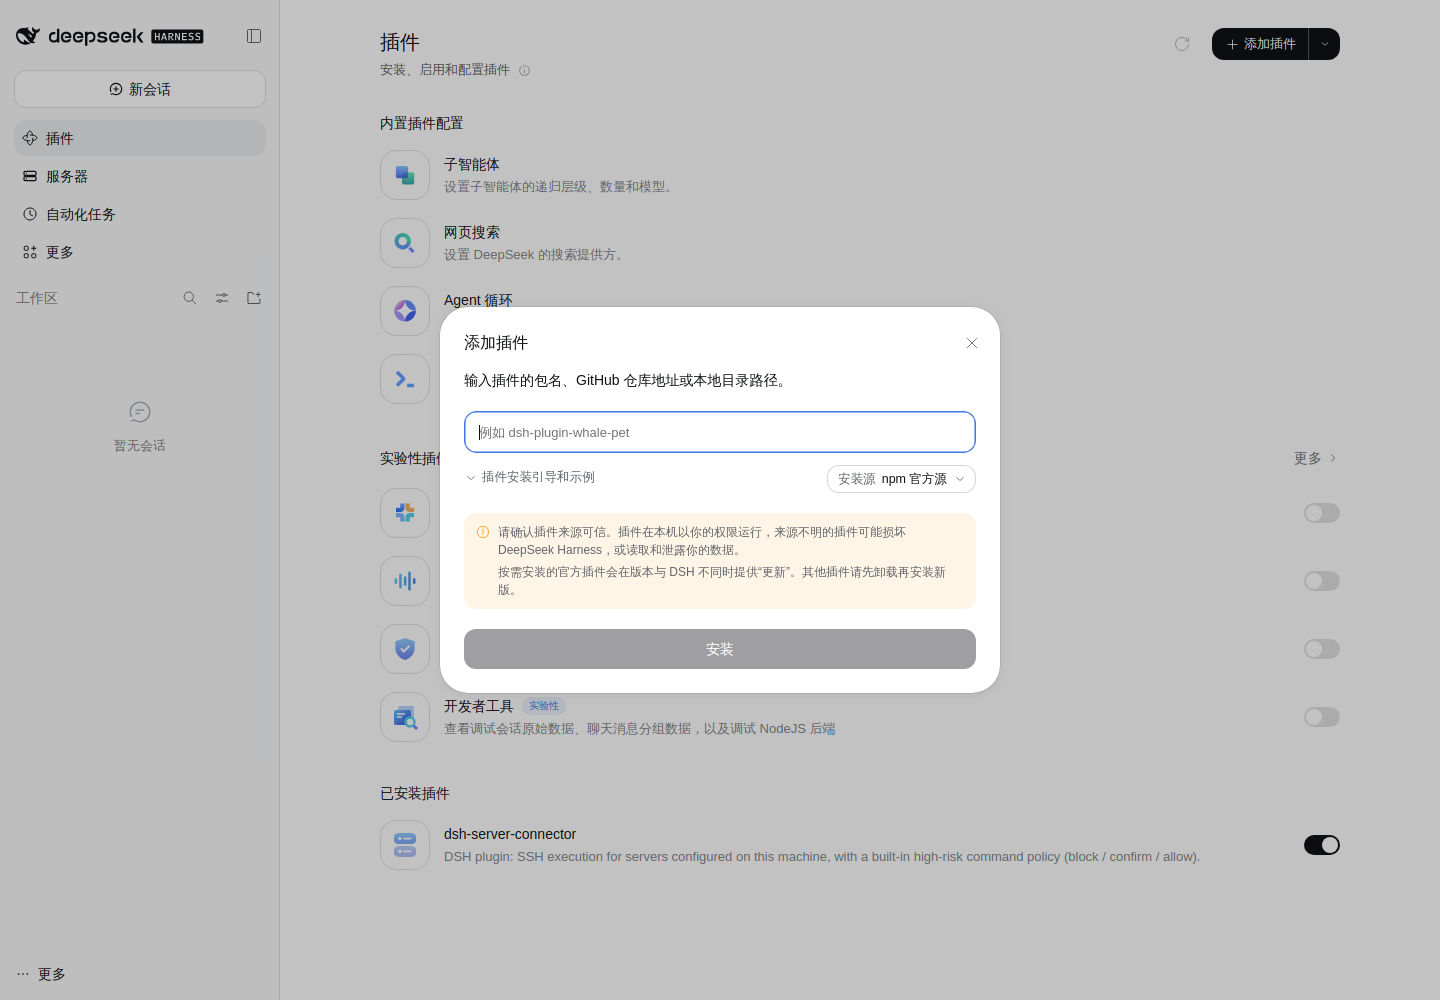
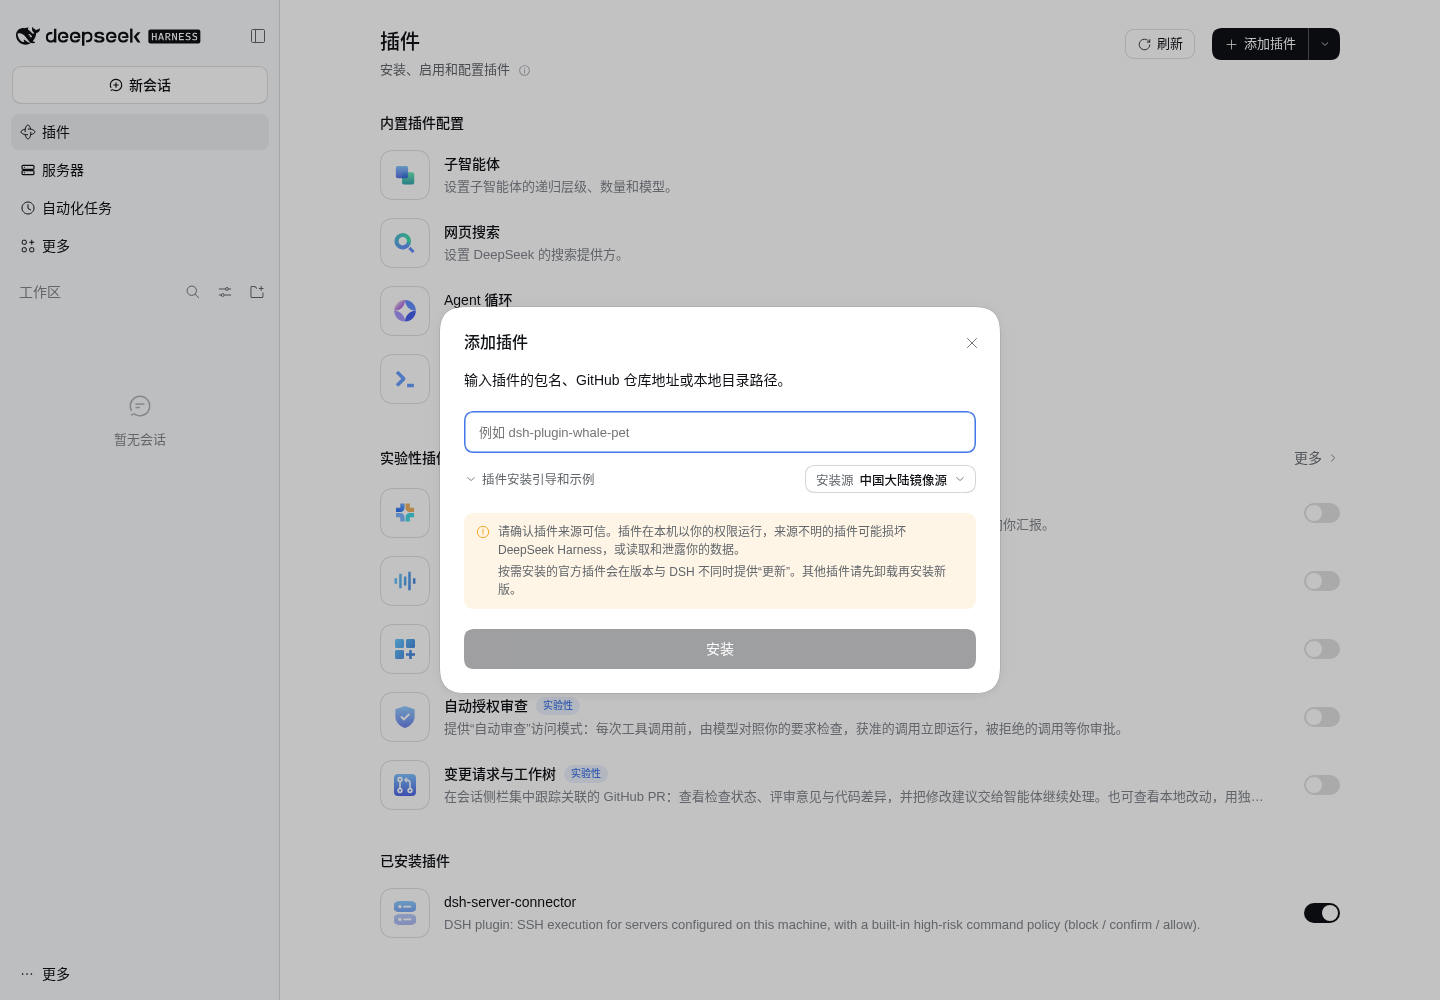
docs(usage): refresh screenshots for 0.3.0 UI
Recapture panel/settings/form/detail/install-dialog against the current
build: per-row enable switches, in-place delete confirmation, editable
global settings and the custom-rules card. Update the capture notes in
docs/usage/README.md to match the environment actually used.

diff --git a/docs/usage/README.md b/docs/usage/README.md
@@ -10,26 +10,28 @@ README 里引用的界面截图与采集方式。截图是**真实运行**的 DS
 | `settings.png` | 设置 → 服务器连接器：待确认操作 + 全局配置 | 审批与两段式确认 |
 | `install-dialog.png` | 「插件 → 添加插件」对话框 | 安装 |
 
-> 截图采集于 0.2.x。0.3.0 起「全局设置」变为可编辑表单（保存即生效），
-> 删除确认改到详情页原地完成；两张相关截图的界面细节已与当前版本不同，
-> 但入口位置与流程一致。
+> 截图采集于 0.3.0，与当前界面一致：列表每行带启用/禁用开关，详情页含
+> 「自定义规则」卡片，删除在详情页原地确认，「全局设置」是可编辑表单（保存即生效）。
 
 ## 采集环境
 
-- `@deepseek-ai/dsh@0.2.1-rc.5`，插件以 `link:` 方式装进一个独立 profile，
-  该 profile 使用自己的 `$DSH_HOME`（`dsh plugin --profile web add <checkout>`）。
-- Chromium（Playwright 自带的 131.0.6778.33）headless，通过 CDP 驱动：
-  视口宽 1440、device scale 1，`prefers-color-scheme: light`，`locale: zh-CN`；
-  各图高度按内容取 620（列表）/ 1000（安装对话框）/ 760（设置）/ 1080（表单）/ 2150（详情）。
+- `@deepseek-ai/dsh@0.2.2-rc.1`，插件以 `link:` 方式装进一个独立 profile，
+  该 profile 使用自己的 `$DSH_HOME`（`dsh plugin --profile add <checkout>`）。
+- Chromium（Playwright 自带的 Chrome for Testing 158.0.8127.18）headless：
+  视口宽 1440、device scale 1，`colorScheme: light`，`locale: zh-CN`；
+  各图高度按内容取 620（列表）/ 1000（安装对话框）/ 1250（设置）/ 1880（表单）/ 2000（详情）。
 - 三台示例服务器（`本地演示机` / `生产机-A` / `测试机-B`）经由插件自己的
   `POST /server-connector/servers` 路由创建——与面板表单调用的是同一个接口。
+- 设置页本身有固定高度，采集时只放宽对话框高度（`.VOzbGW_panel{height:auto}`），
+  不改变插件渲染出来的任何内容。
 
 ## 演示数据是真的执行出来的
 
 `detail.png` 里的 4 条审计来自一次真实会话：插件在本机起了
-`linuxserver/openssh-server` 容器，用 `srv_connect` / `srv_exec` 依次跑了
-`df -h /`、`df -h /srv/app`、`ls -l /srv/app`，最后一条是被策略拦下的
-`rm -rf /srv/app/old`（`decision: "block"`，命令没有发到远端）。
+`linuxserver/openssh-server` 容器（`127.0.0.1:2222`，公钥认证，`devops`），
+经由插件自己的 `Pool` + `policy.check` 依次跑了
+`df -h /`、`df -h /config`、`ls -l /config`，最后一条是被策略拦下的
+`rm -rf /config/old`（`decision: "block"`，`policyRule: "rm-recursive"`，命令没有发到远端）。
 **`settings.png` 里的待确认记录**也是真的：对 `测试机-B` 调用了一次
 `DELETE /server-connector/servers/srv-03`，服务器仍在列表里，只是多了一条待确认请求。
 
